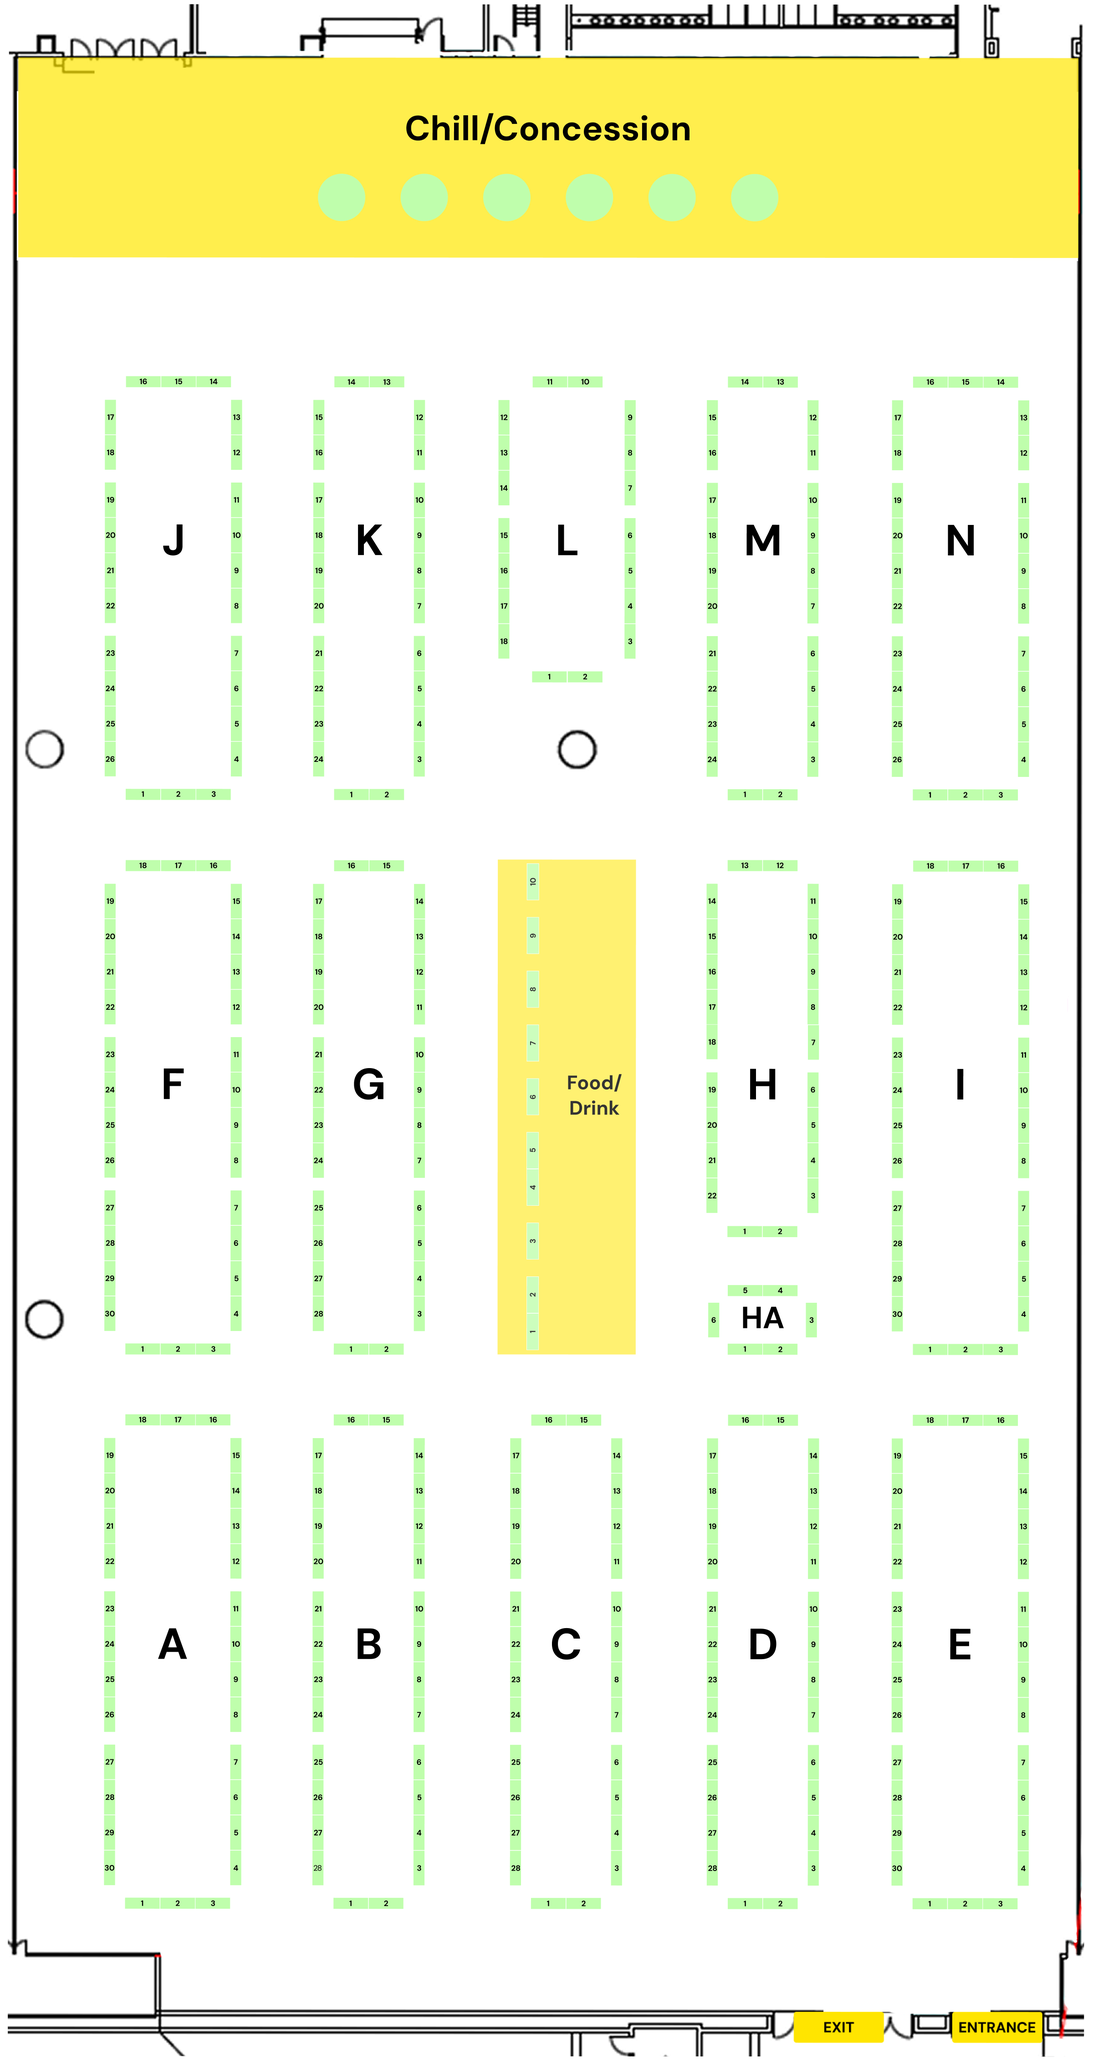
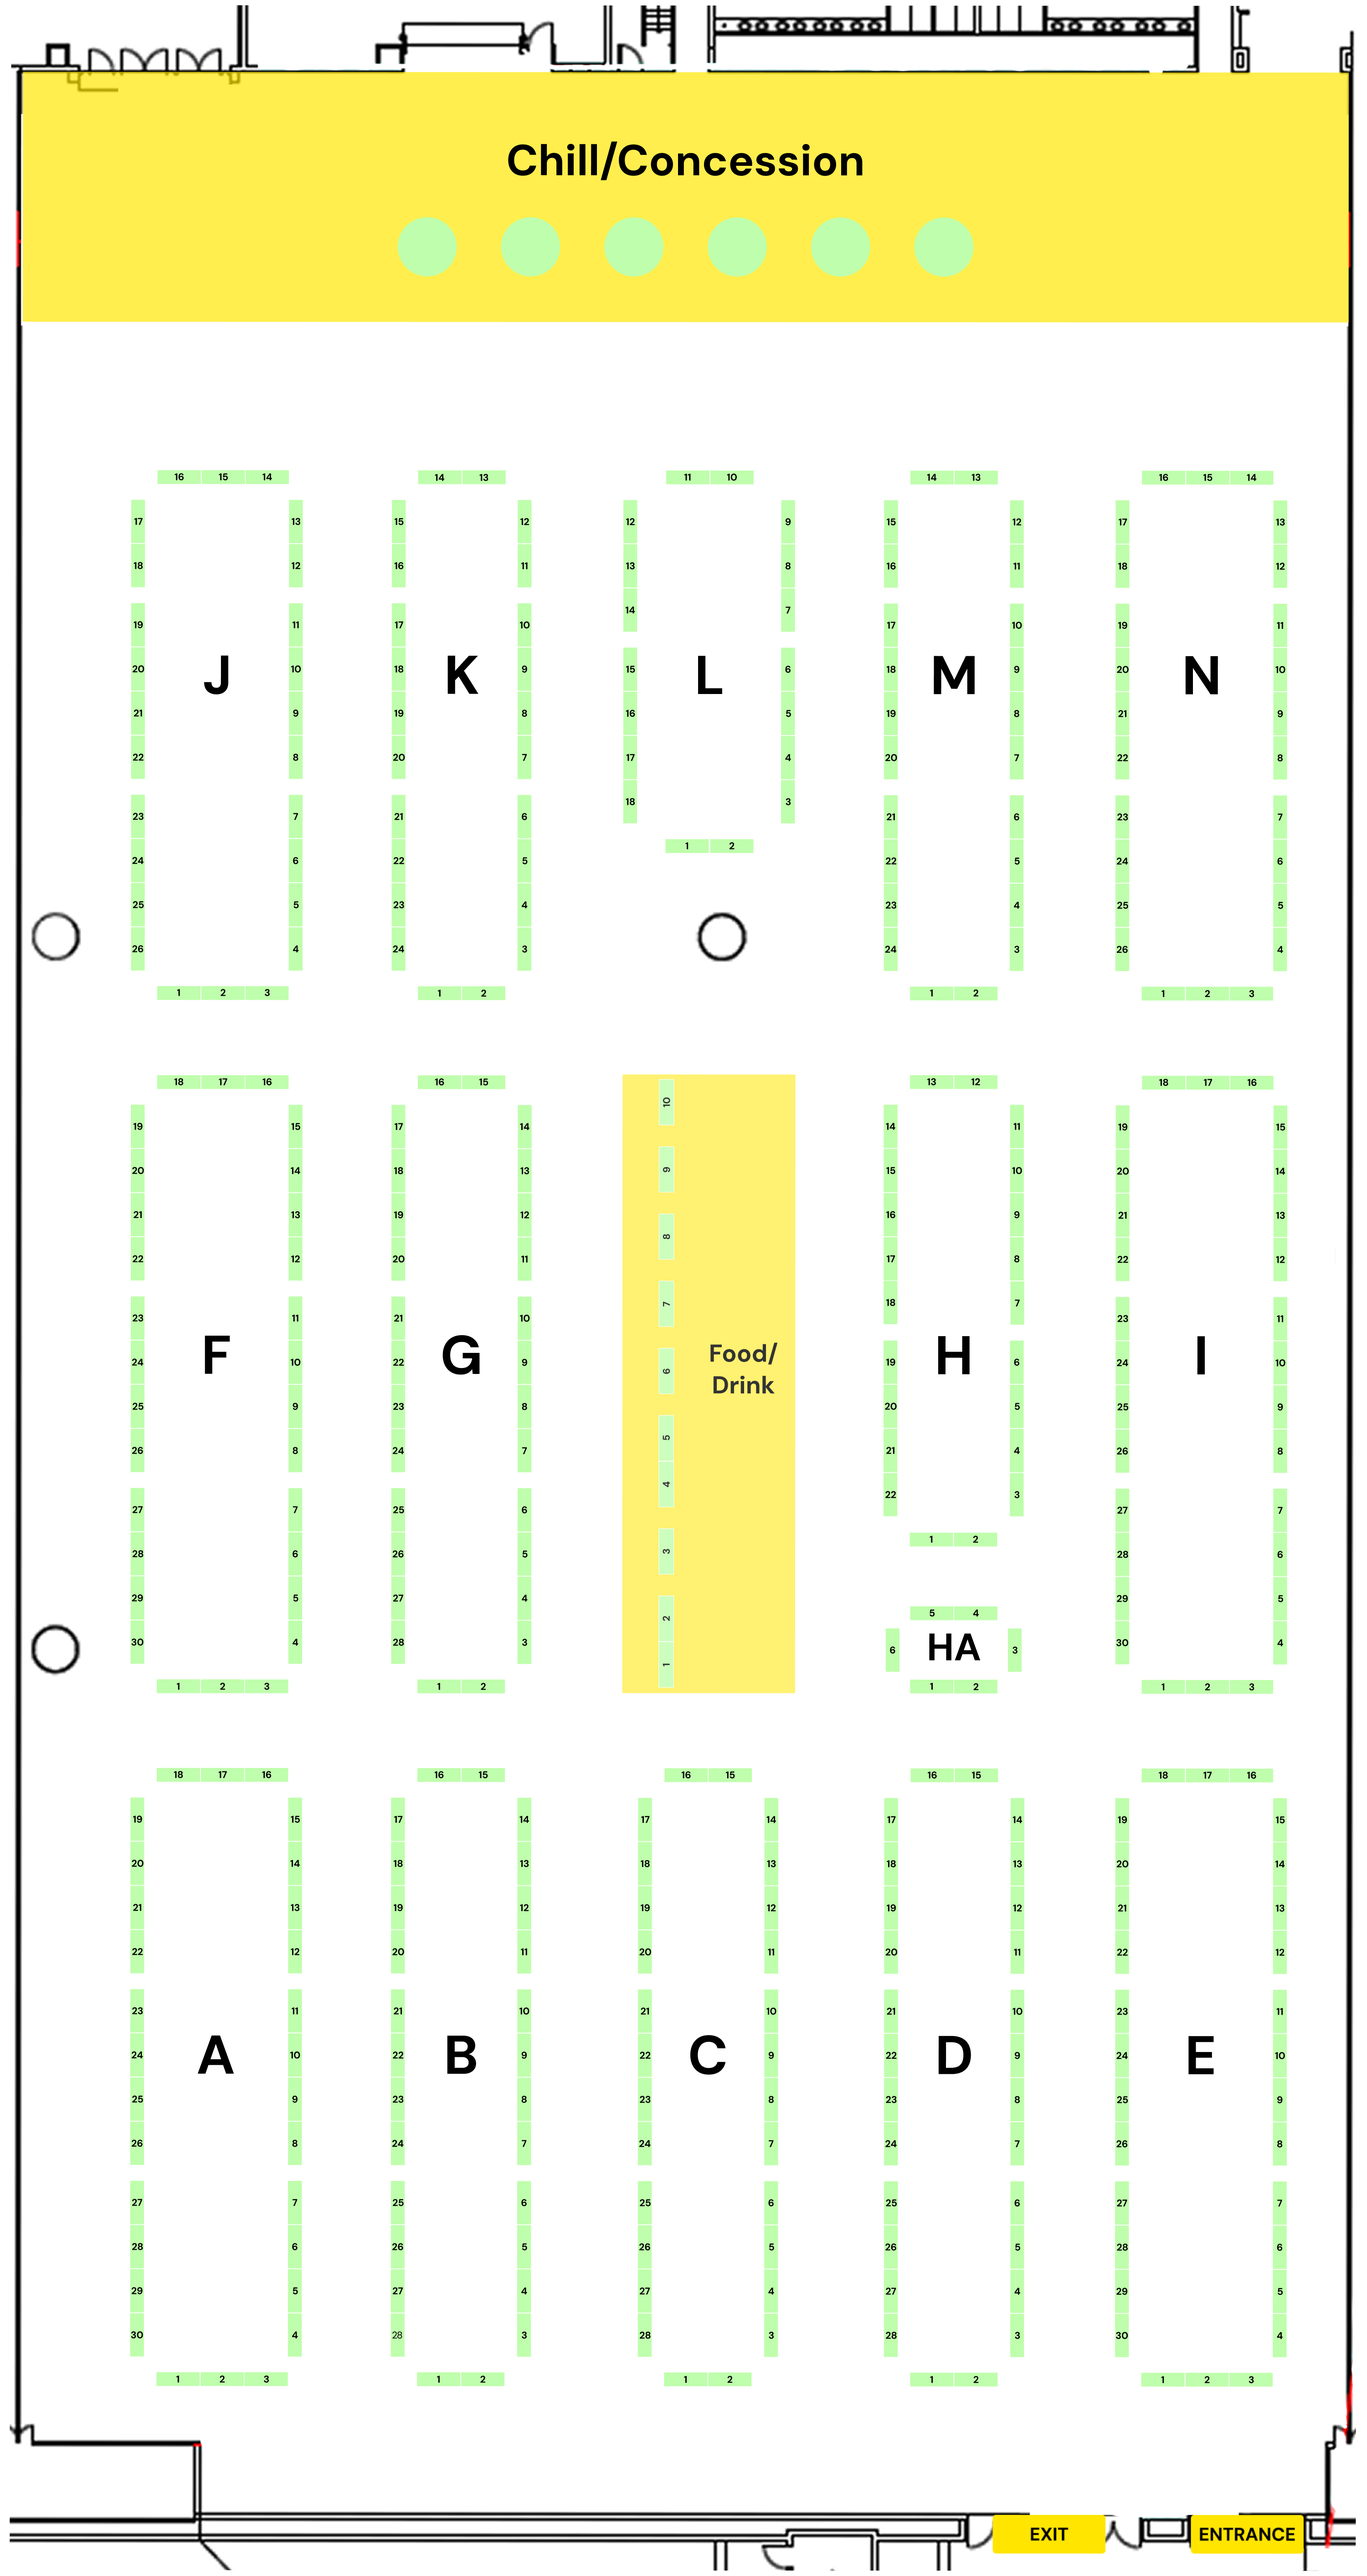
fix(events,profile): sharper floor map at max zoom; empty-bio prompt on your own profile
- Max zoom 6x -> 4x and the floor exported at 3000px: ~3px per point at full
  zoom instead of an upscaled 2400px image.
- Own profile with no bio shows "Tell us about yourself!", which opens Edit
  Profile; other people's profiles show nothing.

Changed region(s): [[0.0, 0.9664, 0.7188, 0.9976], [0.9375, 0.9664, 0.9688, 0.9976], [0.8438, 0.9664, 0.875, 0.9976]]

diff --git a/apps/spotlight-rn/__tests__/components/profile-header-test.tsx b/apps/spotlight-rn/__tests__/components/profile-header-test.tsx
@@ -146,6 +146,30 @@ describe('ProfileHeader', () => {
     expect(screen.getByText('Gotta collect them all.')).toBeTruthy();
   });
 
+  it('prompts for a bio on your own empty profile, and opens the editor', () => {
+    const onAddBioPress = jest.fn();
+    renderHeader(<ProfileHeader displayName="Ash Ketchum" initials="AK" onAddBioPress={onAddBioPress} />);
+
+    fireEvent.press(screen.getByText('Tell us about yourself!'));
+    expect(onAddBioPress).toHaveBeenCalledTimes(1);
+  });
+
+  it('shows no prompt over a real bio, or on someone else\'s profile', () => {
+    const { rerender } = renderHeader(
+      <ProfileHeader bio="Gotta collect them all." displayName="Ash Ketchum" initials="AK" onAddBioPress={jest.fn()} />,
+    );
+    expect(screen.queryByText('Tell us about yourself!')).toBeNull();
+
+    rerender(
+      <SafeAreaProvider>
+        <SpotlightThemeProvider>
+          <ProfileHeader displayName="Ash Ketchum" initials="AK" />
+        </SpotlightThemeProvider>
+      </SafeAreaProvider>,
+    );
+    expect(screen.queryByText('Tell us about yourself!')).toBeNull();
+  });
+
   it('renders the three stat counts', () => {
     renderHeader(
       <ProfileHeader

diff --git a/apps/spotlight-rn/src/features/profile/components/profile-header.tsx b/apps/spotlight-rn/src/features/profile/components/profile-header.tsx
@@ -29,6 +29,8 @@ type ProfileHeaderProps = {
    */
   actionRow?: ReactNode;
   bio?: string | null;
+  /** Own profile only: with no bio, show a "Tell us about yourself!" prompt that calls this. */
+  onAddBioPress?: () => void;
   socialLink?: string | null;
   avatarUrl?: string | null;
   coverUrl?: string | null;
@@ -95,6 +97,7 @@ export function ProfileHeader({
   isVerified = false,
   actionRow,
   bio,
+  onAddBioPress,
   socialLink,
   avatarUrl,
   coverUrl,
@@ -273,6 +276,12 @@ export function ProfileHeader({
           >
             {bio}
           </Text>
+        ) : onAddBioPress ? (
+          <Pressable accessibilityRole="button" onPress={onAddBioPress} testID={`${testID}-bio-placeholder`}>
+            <Text style={[theme.typography.label, styles.bio, { color: theme.colors.gray300 }]}>
+              Tell us about yourself!
+            </Text>
+          </Pressable>
         ) : null}
         {actionRow ? <View style={styles.actionRowSlot}>{actionRow}</View> : null}
       </View>

diff --git a/apps/spotlight-rn/__tests__/features/events/event-floor-map-model-test.ts b/apps/spotlight-rn/__tests__/features/events/event-floor-map-model-test.ts
@@ -1,6 +1,7 @@
 import { mockSpotlightEventMap } from '@spotlight/api-client';
 
 import {
+  MAP_MAX_SCALE,
   clampTransform,
   contentSize,
   filterVendors,
@@ -37,9 +38,9 @@ describe('map geometry', () => {
 
   it('clamps scale and keeps a zoomed map covering the viewport', () => {
     const clamped = clampTransform({ scale: 10, translateX: 500, translateY: -99999 }, content, viewport);
-    expect(clamped.scale).toBe(6);
+    expect(clamped.scale).toBe(MAP_MAX_SCALE);
     expect(clamped.translateX).toBe(0);
-    expect(clamped.translateY).toBe(viewport.height - content.height * 6);
+    expect(clamped.translateY).toBe(viewport.height - content.height * MAP_MAX_SCALE);
   });
 
   it('zooms in on a vendor and centers its tables', () => {

diff --git a/apps/spotlight-rn/src/features/events/event-floor-map-model.ts b/apps/spotlight-rn/src/features/events/event-floor-map-model.ts
@@ -3,9 +3,9 @@ import type { SpotlightEventMap, SpotlightEventMapTable, SpotlightEventMapVendor
 export type MapTransform = { scale: number; translateX: number; translateY: number };
 
 export const MAP_MIN_SCALE = 1;
-export const MAP_MAX_SCALE = 6;
+export const MAP_MAX_SCALE = 4;
 /** Fitting a vendor never zooms past this; one table at max scale fills the screen. */
-const FIT_MAX_SCALE = 4;
+const FIT_MAX_SCALE = 3.5;
 /** Fraction of the viewport a fitted vendor's tables may cover. */
 const FIT_FILL = 0.5;
 /** Tables are a few points wide at 1x; widen the tap target in screen points. */

diff --git a/apps/spotlight-rn/src/features/portfolio/screens/portfolio-screen.tsx b/apps/spotlight-rn/src/features/portfolio/screens/portfolio-screen.tsx
@@ -1643,6 +1643,7 @@ export function PortfolioScreen({
         handle={currentUser?.handle}
         initials={profileInitials}
         isVerified={currentUser?.isVerified}
+        onAddBioPress={handleEditProfilePress}
         onFollowersPress={handleOpenFollowers}
         onFollowingPress={handleOpenFollowing}
         onSocialLinkPress={handleSocialLinkPress}

diff --git a/tools/build_event_floor_map.py b/tools/build_event_floor_map.py
@@ -46,8 +46,8 @@ REPO = Path(__file__).resolve().parents[1]
 OUT_DIR = REPO / "backend" / "data" / "spotlight_event_maps"
 TABLE_NODE_NAME = "6' table"
 FOOD_BLOCK = "FOOD"
-# Wide enough to read table numbers when zoomed on a phone, small enough to load fast.
-TARGET_IMAGE_WIDTH = 2400
+# ~3px per point at the app's max zoom (4x of a ~230pt-wide fit); bigger costs too much decode memory.
+TARGET_IMAGE_WIDTH = 3000
 
 _BLOCK_LABEL_RE = re.compile(r"^(?:[A-Z]|HA)$")
 _LOCATION_TOKEN_RE = re.compile(
